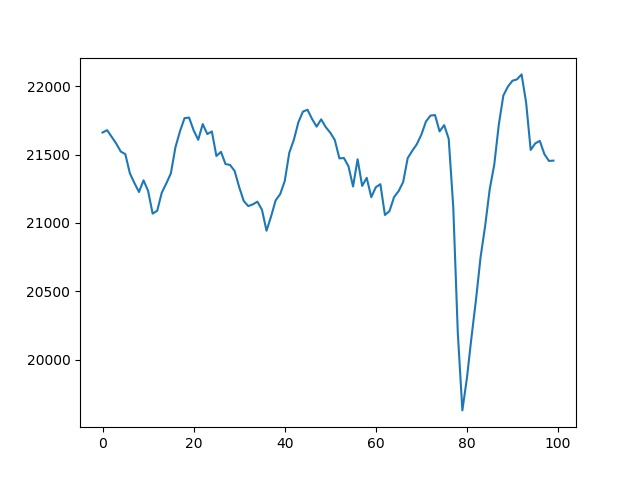
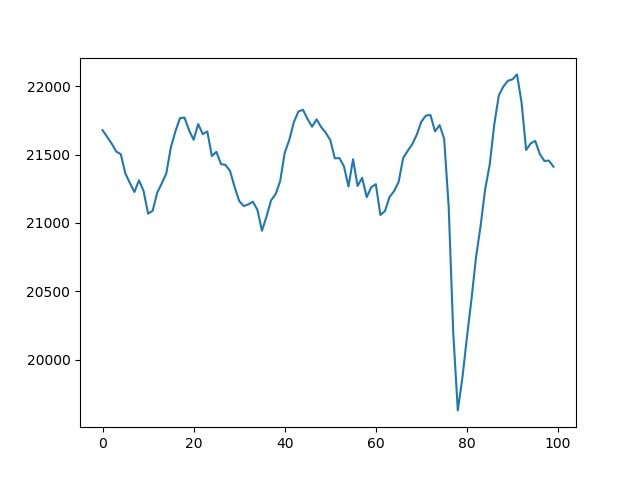
'auto'

diff --git a/README.md b/README.md
@@ -1,5 +1,5 @@
 Frizider live: 8
-21455.6 
+21411.091666666667 
 0
 Temperatura:
 
